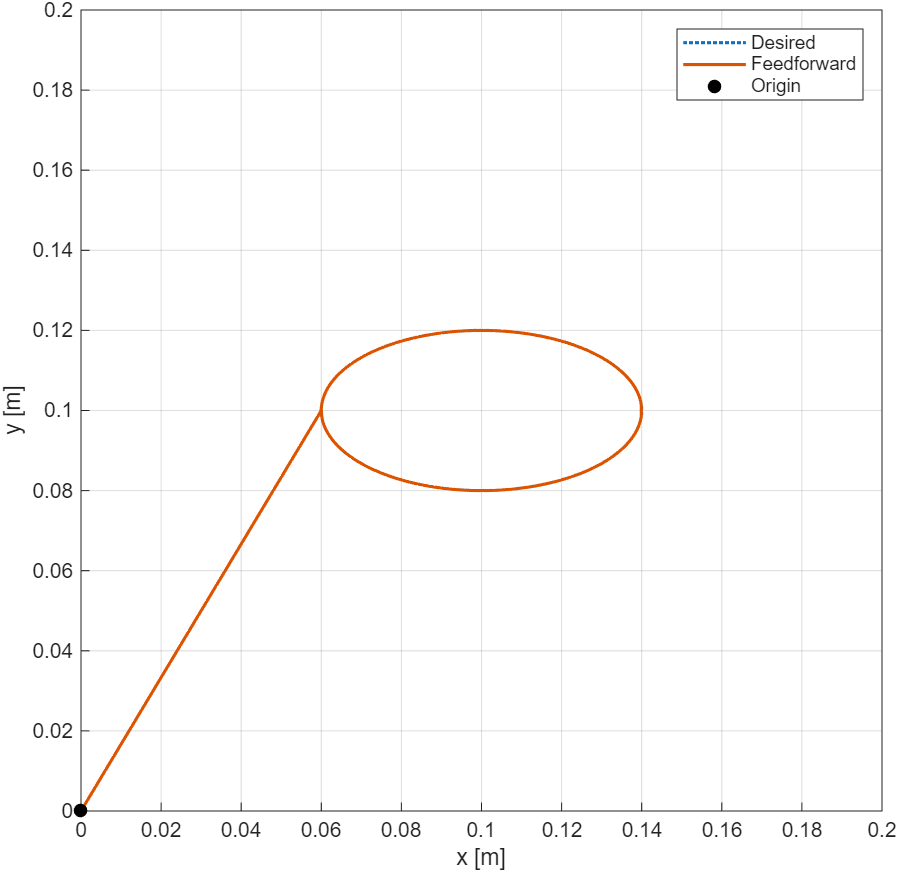
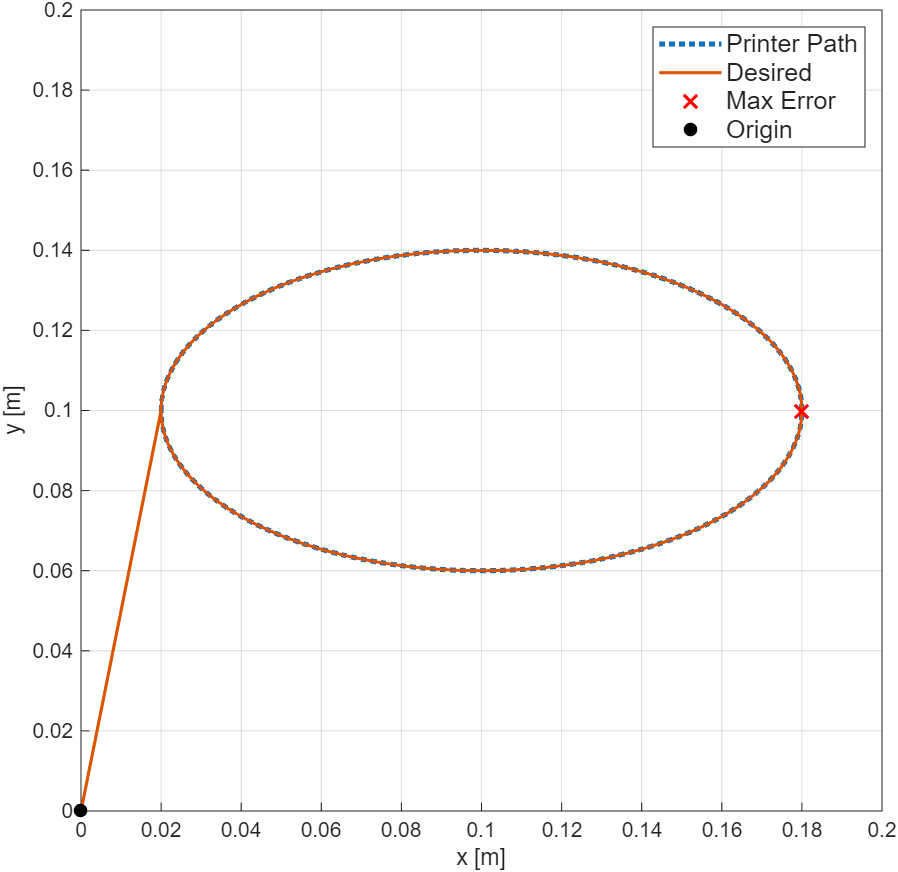
1_4_Airfoil_Shape

diff --git a/Q1/Drawing_Shapes_Airfoil.m b/Q1/Drawing_Shapes_Airfoil.m
@@ -1,0 +1,133 @@
+clear; clc; close all
+scriptFolder = fileparts(mfilename('fullpath'));
+functionsFolder = fullfile(scriptFolder, '..', 'functions');
+addpath(functionsFolder)
+
+% Desired airfoil path
+
+c = 0.16;
+tau = 0.16;
+xc = 0.02;
+yc = 0.10;
+bed = 0.20;
+T = 4;
+
+n = 400;
+x_points = linspace(0,c,n/2);
+xr = x_points/c;
+
+yt = 5*tau*c*(0.2969*sqrt(xr) - 0.1260*xr ...
+    - 0.3516*xr.^2 + 0.2843*xr.^3 - 0.1036*xr.^4);
+
+x_des = xc + [x_points, fliplr(x_points)];
+y_des = yc + [yt, -fliplr(yt)];
+
+% Approach trajectory
+
+T_approach = 2;
+
+t = linspace(0,T_approach+T,3000);
+
+x = zeros(size(t));
+y = zeros(size(t));
+
+idx1 = t <= T_approach;
+idx2 = t > T_approach;
+
+s1 = t(idx1)/T_approach;
+p1 = 10*s1.^3 - 15*s1.^4 + 6*s1.^5;
+
+x(idx1) = xc*p1;
+y(idx1) = yc*p1;
+
+distance = [0 cumsum(hypot(diff(x_des),diff(y_des)))];
+distance = distance/distance(end);
+
+[distance_unique,idx_unique] = unique(distance);
+
+s2 = (t(idx2)-T_approach)/T;
+p2 = 10*s2.^3 - 15*s2.^4 + 6*s2.^5;
+
+x(idx2) = interp1(distance_unique, ...
+    x_des(idx_unique),p2,'pchip');
+
+y(idx2) = interp1(distance_unique, ...
+    y_des(idx_unique),p2,'pchip');
+
+% Feedforward printer head path
+
+params = printerParams();
+rm = params.rm;
+
+[Uff,theta,omega,i_des] = feedforward(t,x,y,params);
+
+u_ff = @(tt,z) interp1(t,Uff.',tt,'pchip').';
+
+z0 = [theta(:,1); omega(:,1); i_des(:,1)];
+
+[t_sim,z] = ode45(@(tt,z) motorODE(tt,z,u_ff,params), ...
+    [0 T_approach+T],z0);
+
+x_sim = rm/2*(z(:,1)+z(:,2));
+y_sim = rm/2*(z(:,1)-z(:,2));
+
+% Path tracking error
+
+x_ref = interp1(t,x,t_sim,'pchip');
+y_ref = interp1(t,y,t_sim,'pchip');
+
+path_error = hypot(x_sim-x_ref,y_sim-y_ref);
+
+idx = t_sim >= T_approach;
+te = t_sim(idx);
+ee = path_error(idx);
+
+rms_error = 1000*sqrt(trapz(te,ee.^2)/T);
+max_error = 1000*max(ee);
+
+fprintf('RMS airfoil error: %.6f mm\n',rms_error)
+fprintf('Maximum airfoil error: %.6f mm\n',max_error)
+
+
+% Plots
+
+figure
+hold on
+
+rectangle('Position',[0 0 bed bed])
+plot(x_des,y_des,':','LineWidth',2.5)
+plot(x_sim,y_sim,'LineWidth',1.5)
+
+[~,k] = max(ee);
+t_max = te(k);
+
+x_max = interp1(t_sim,x_sim,t_max);
+y_max = interp1(t_sim,y_sim,t_max);
+
+plot(x_max,y_max,'rx','MarkerSize',9,'LineWidth',1.5)
+plot(0,0,'ko','MarkerFaceColor','k')
+
+xlabel('x [m]')
+ylabel('y [m]')
+legend('Desired','Printer Path','Max Error','Origin', ...
+    'Location','northeast','FontSize',12)
+axis equal
+xlim([0 bed])
+ylim([0 bed])
+grid on
+
+
+figure
+hold on
+
+plot(te-T_approach,1000*ee,'LineWidth',1.5)
+plot(t_max-T_approach,1000*ee(k),'rx', ...
+    'MarkerSize',9,'LineWidth',1.5)
+
+xlabel('Time [s]')
+ylabel('Tracking error [mm]')
+legend('Tracking Error','Max Error', ...
+    'Location','northeast','FontSize',12)
+set(gca,'YScale','log')
+xlim([0 T])
+grid on

diff --git a/Q1/Drawing_Shapes_Elliptical.m b/Q1/Drawing_Shapes_Elliptical.m
@@ -5,8 +5,8 @@ addpath(functionsFolder)
 
 % Desired elliptical path
 
-a = 0.04;
-b = 0.02;
+a = 0.08;
+b = 0.04;
 xc = 0.10;
 yc = 0.10;
 bed = 0.20;
@@ -21,7 +21,7 @@ y_des = yc + b*sin(w*t);
 
 % Approach trajectory
 
-T_approach = 3;
+T_approach = 2;
 
 t = linspace(0,T_approach+T,3501);
 
@@ -81,20 +81,45 @@ fprintf('RMS ellipse error: %.6f mm\n',rms_error)
 fprintf('Maximum ellipse error: %.6f mm\n',max_error)
 
 
-% Plot the paths
+
+% Plots
 
 figure
 hold on
 
 rectangle('Position',[0 0 bed bed])
-plot(x(idx2),y(idx2),':','LineWidth',1.5)
+plot(x(idx2),y(idx2),':','LineWidth',2.5)
 plot(x_sim,y_sim,'LineWidth',1.5)
+
+[~,k] = max(ee);
+t_max = te(k);
+
+x_max = interp1(t_sim,x_sim,t_max);
+y_max = interp1(t_sim,y_sim,t_max);
+
+plot(x_max,y_max,'rx','MarkerSize',9,'LineWidth',1.5)
 plot(0,0,'ko','MarkerFaceColor','k')
 
 xlabel('x [m]')
 ylabel('y [m]')
-legend('Desired','Feedforward','Origin','Location','best')
+legend('Printer Path','Desired','Max Error','Origin', ...
+    'Location','northeast','FontSize',12)
 axis equal
 xlim([0 bed])
 ylim([0 bed])
+grid on
+
+
+figure
+hold on
+
+plot(te-T_approach,1000*ee,'LineWidth',1.5)
+plot(t_max-T_approach,1000*ee(k),'rx', ...
+    'MarkerSize',9,'LineWidth',1.5)
+
+xlabel('Time [s]')
+ylabel('Tracking error [mm]')
+legend('Tracking Error','Max Error', ...
+    'Location','northeast','FontSize',12)
+xlim([0 T])
 grid on
